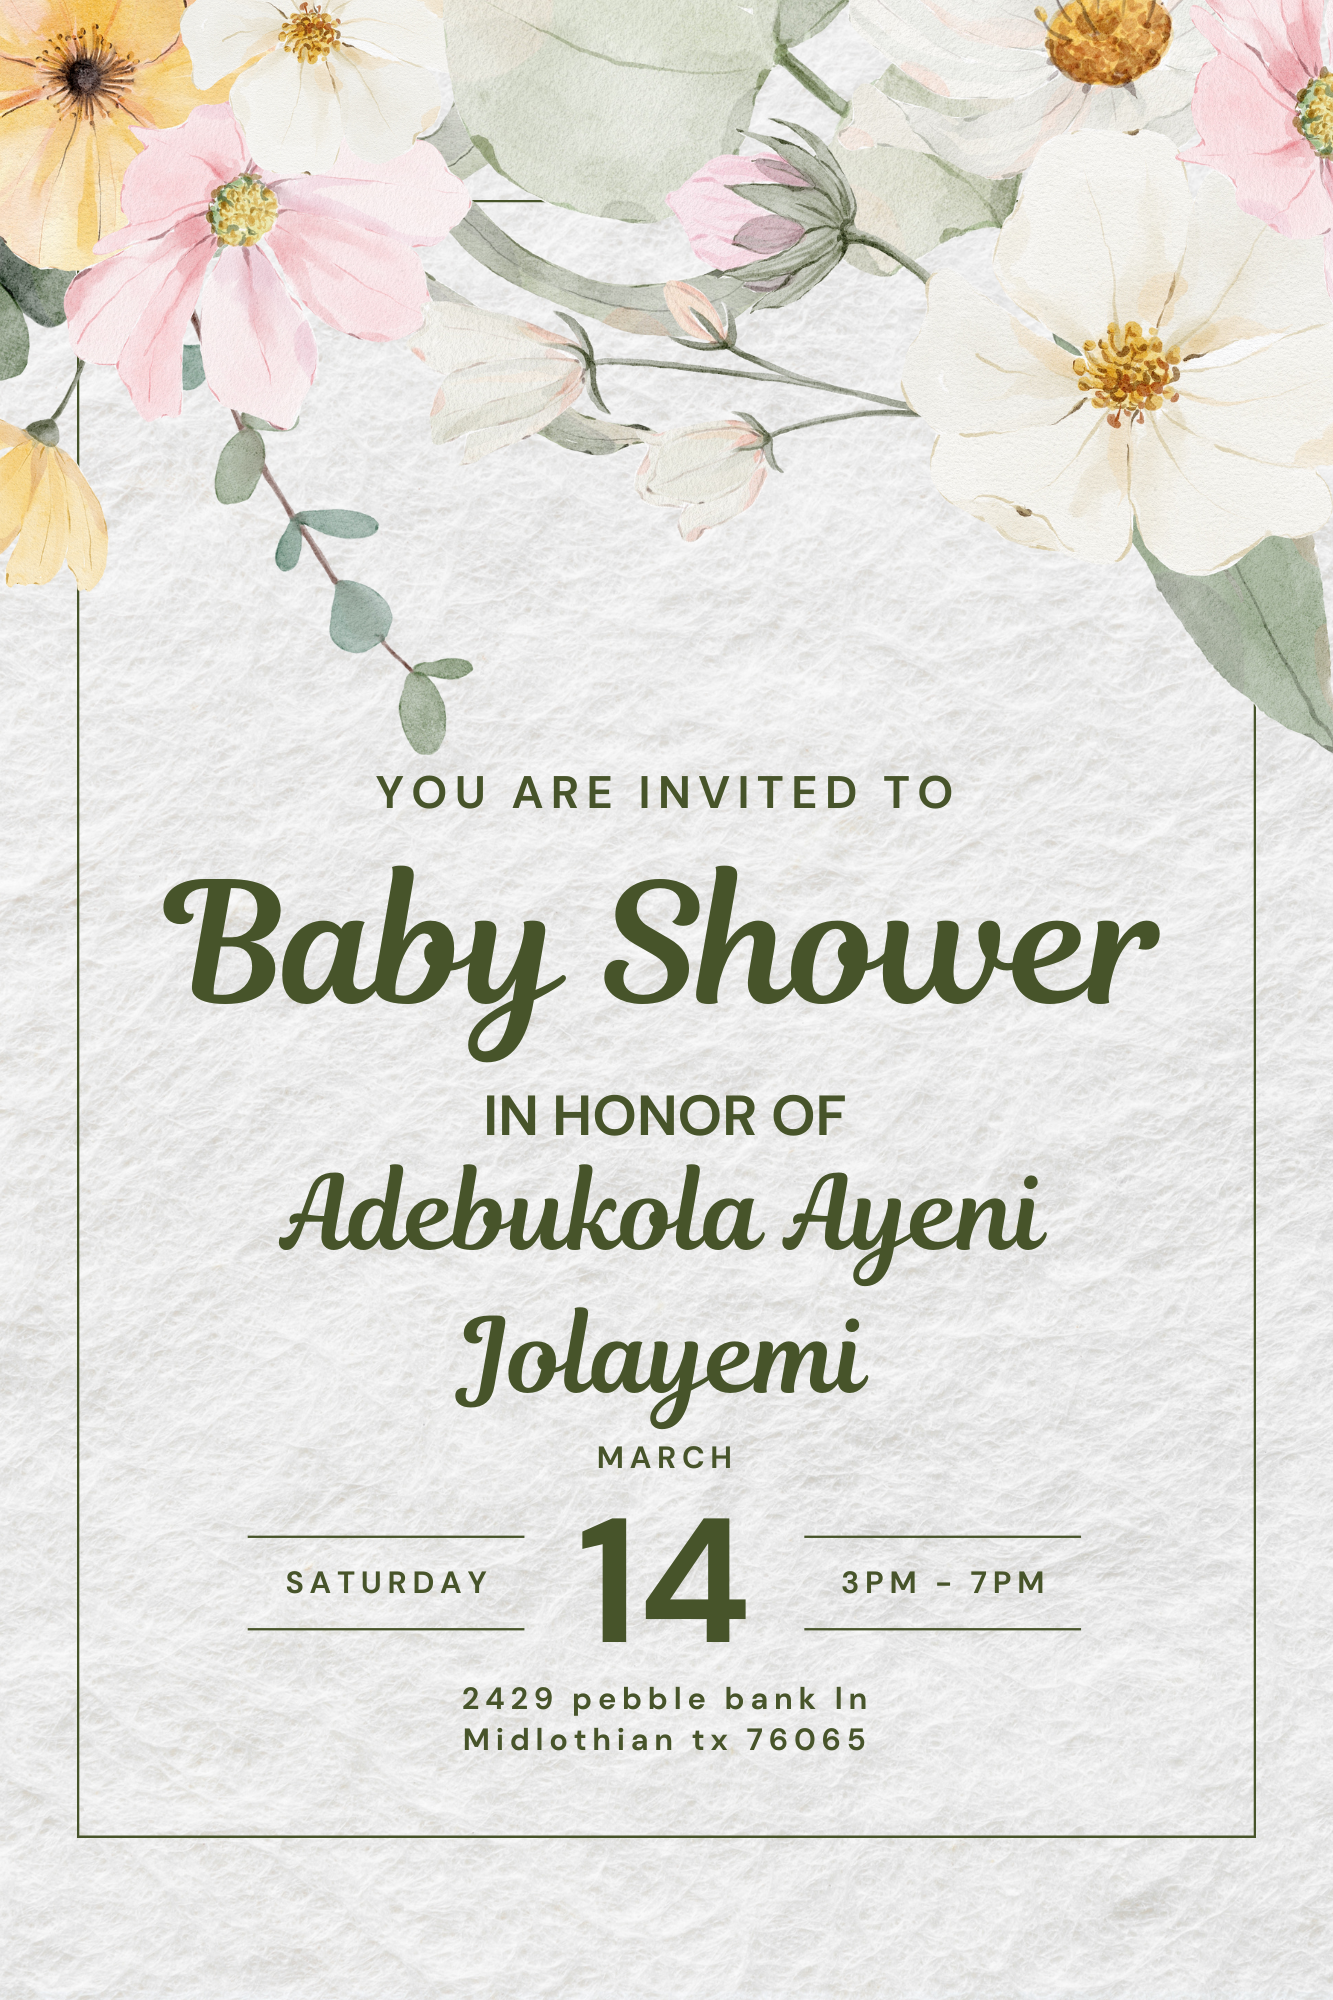
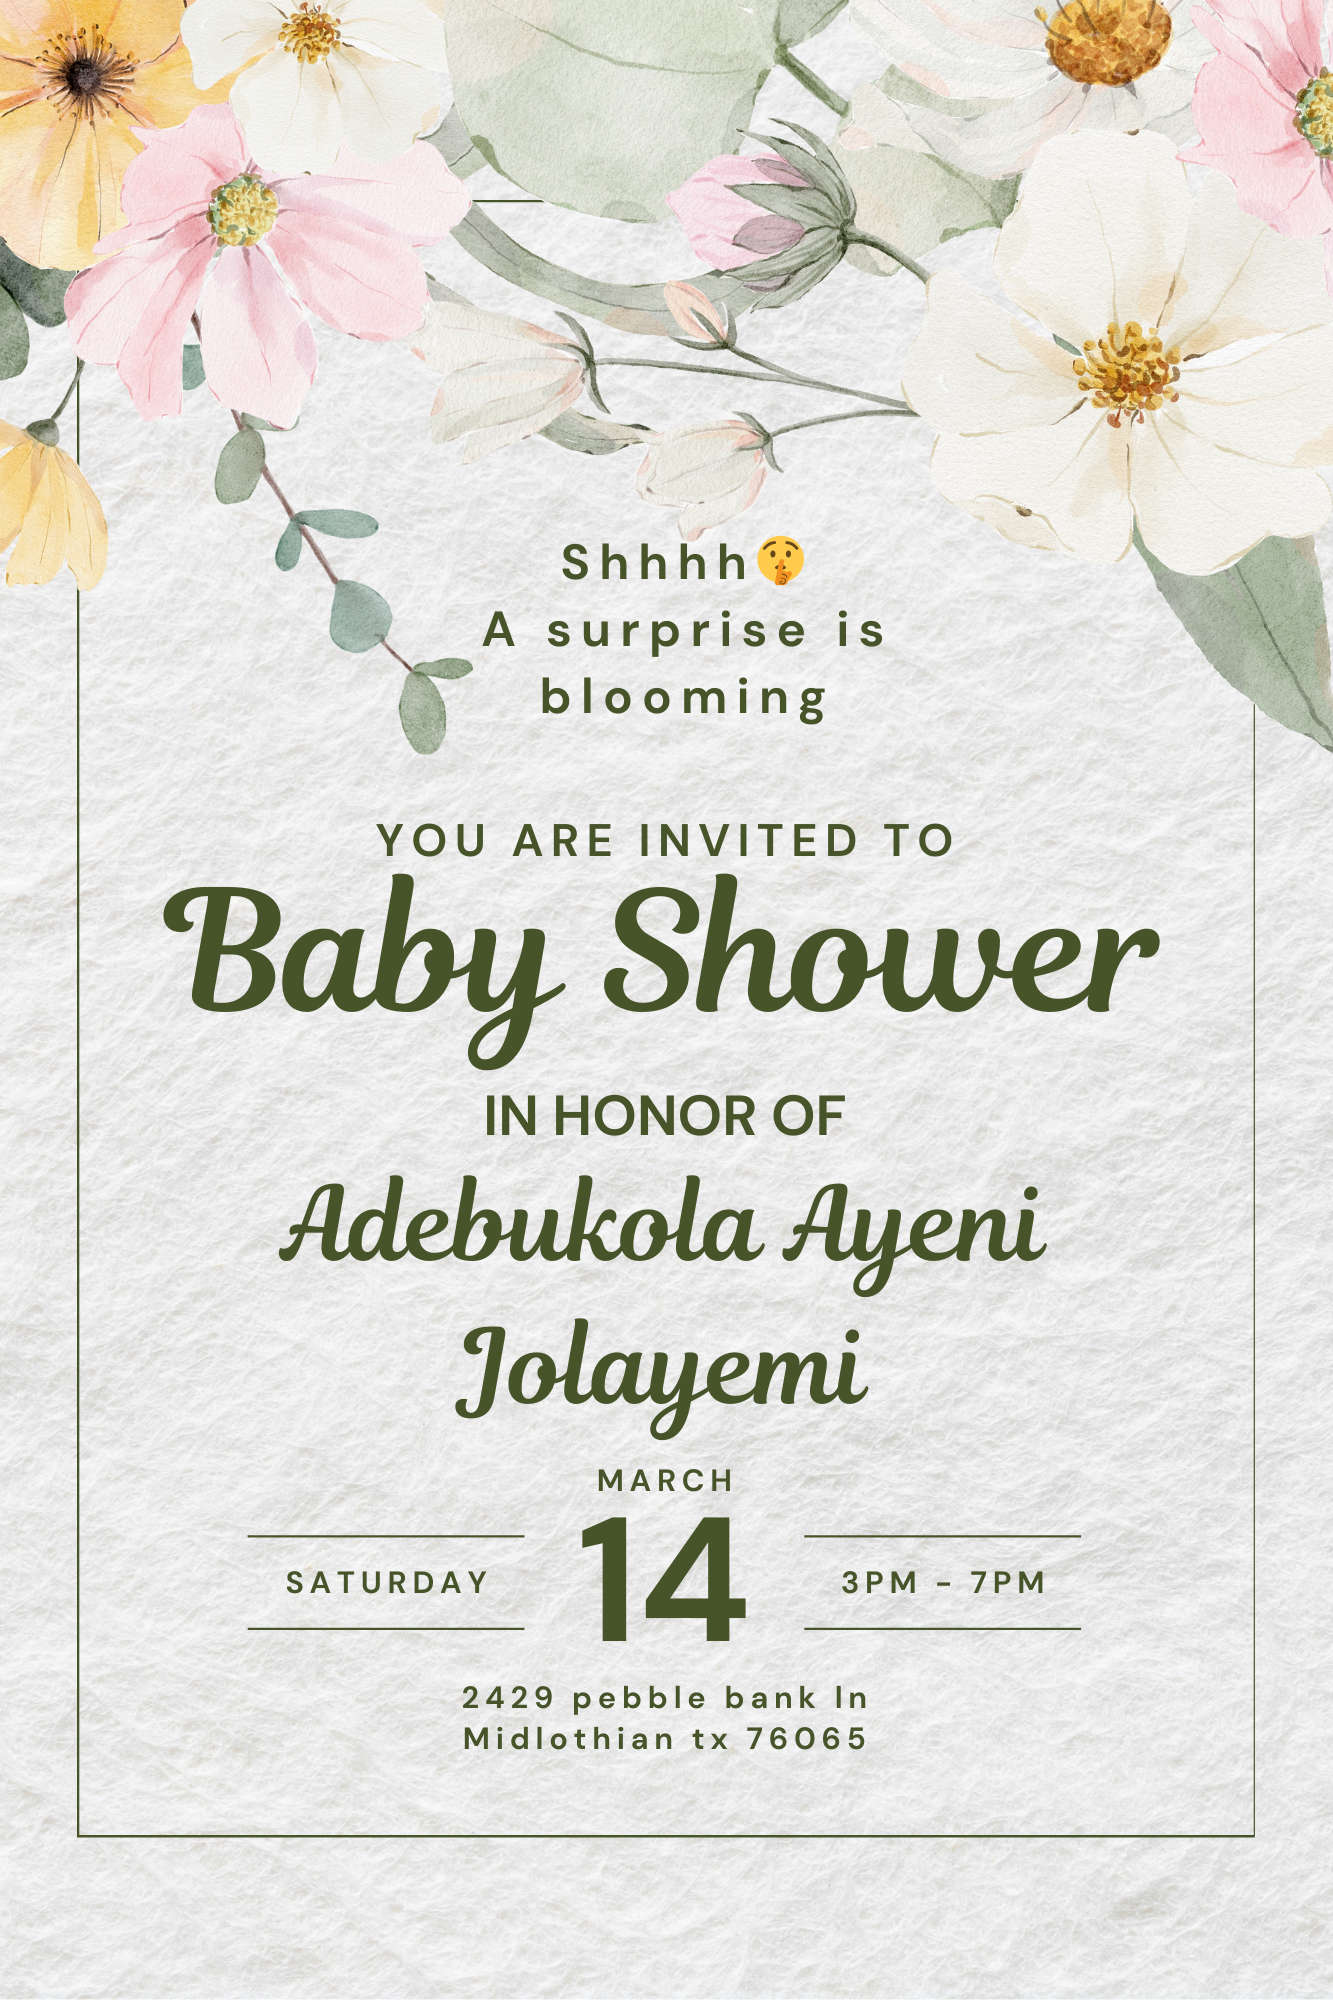
added the updated card

diff --git a/app/components/Footer.tsx b/app/components/Footer.tsx
@@ -38,11 +38,11 @@ export default function Footer() {
                 <span>contact@example.com</span>
               </a>
               <a
-                href="tel:+2341234567890"
+                href="tel:+14695568054"
                 className="flex items-center justify-center md:justify-end gap-2 text-gray-200 hover:text-golden-yellow transition-colors text-sm"
               >
                 <Phone className="w-4 h-4" />
-                <span>+234 123 456 7890</span>
+                <span>+1 469 556 8054</span>
               </a>
             </div>
           </div>
@@ -58,6 +58,9 @@ export default function Footer() {
             </p>
             <p className="text-sm text-gray-400">
               © 2026 Baby Shower. Designed by Olufunbi Ibrahim
+            </p>
+            <p className="text-sm text-gray-400">
+              <a href="mailto:olufunbiibrahim@gmail.com" className="text-golden-yellow hover:text-white transition-colors">Email: olufunbiibrahim@gmail.com</a>
             </p>
           </div>
         </div>
